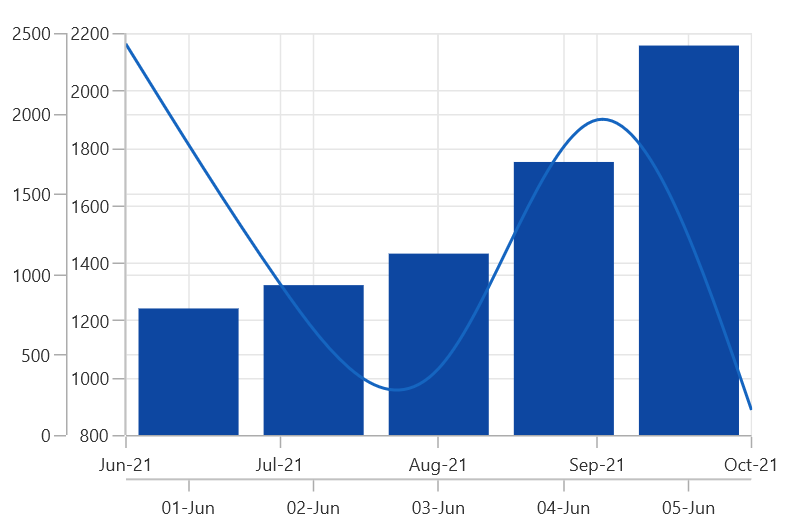
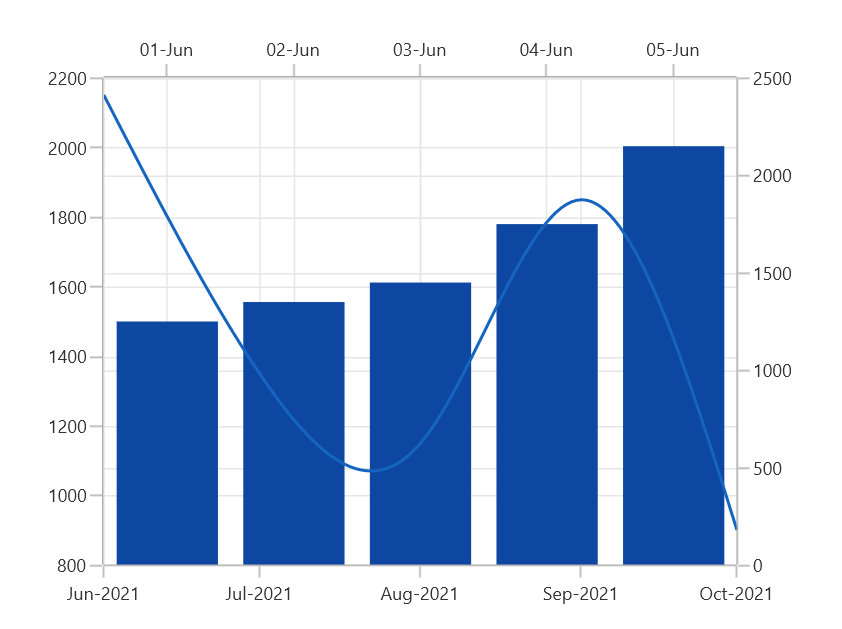
Added opposed axis for multiple axes image

diff --git a/winui/Cartesian-Charts/Axis/Types.md b/winui/Cartesian-Charts/Axis/Types.md
@@ -369,10 +369,10 @@ By default, all the series are plotted based on primary and secondary axis.
                      XBindingPath="Date"
                      YBindingPath="Value">
         <chart:ColumnSeries.XAxis>
-            <chart:DateTimeAxis LabelFormat="dd-MMM"/>
+            <chart:DateTimeAxis LabelFormat="dd-MMM" OpposedPosition="True"/>
         </chart:ColumnSeries.XAxis>
         <chart:ColumnSeries.YAxis>
-            <chart:NumericalAxis/>
+            <chart:NumericalAxis OpposedPosition="True"/>
         </chart:ColumnSeries.YAxis>
     </chart:ColumnSeries>
     <chart:SplineSeries ItemsSource="{Binding Data}" 
@@ -405,9 +405,13 @@ SplineSeries series2 = new SplineSeries()
 
 series1.XAxis = new DateTimeAxis()
 {
-    LabelFormat = "dd-MMM"
+    LabelFormat = "dd-MMM",
+    OpposedPosition = true,
 };
 series2.YAxis = new NumericalAxis();
+{
+    OpposedPosition = true,
+};
 
 chart.Series.Add(series1);
 chart.Series.Add(series2);
@@ -416,6 +420,6 @@ chart.Series.Add(series2);
 
 {% endtabs %}
 
-![Multiple axes support in WinUI Chart](Axis_images/WinUI_Chart_Axis_types_multipleAxis.png)
+![Multiple axes support in WinUI Chart](Axis_images/winui_chart_axis_types_multipleaxis.png)
 
 In the above image, the `ColumnSeries` is plotted based on additional X & Y axes, and `SplineSeries` is plotted based on the primary and secondary axes.
